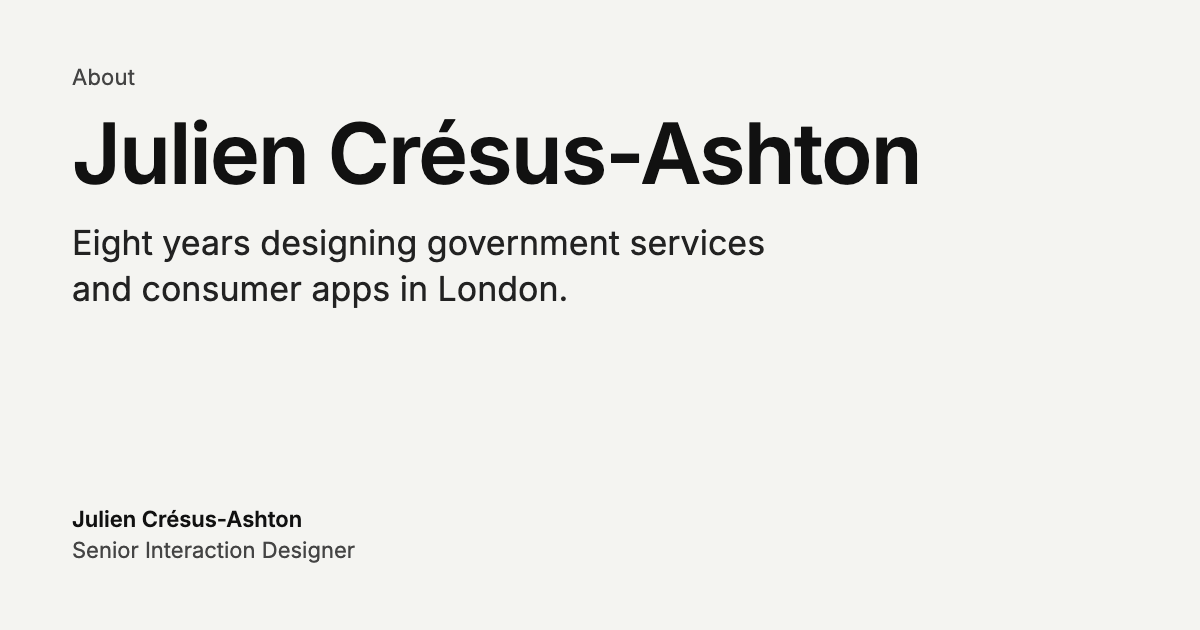
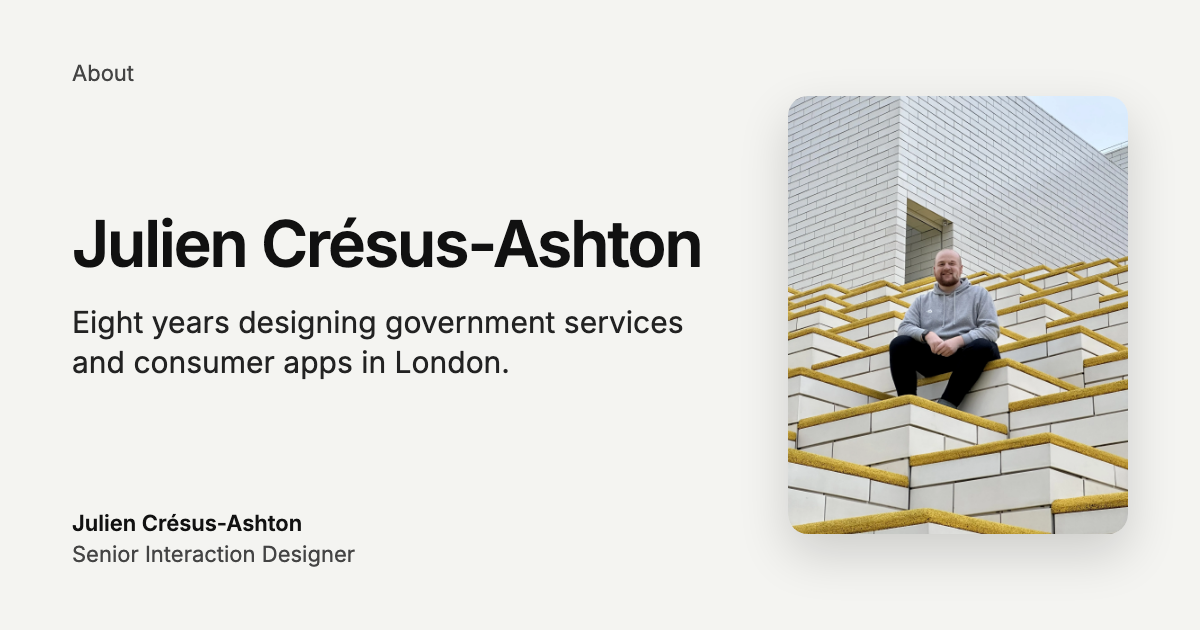
Rework share cards: framed screens, readable crops, photo cards
Hero screens now sit in a framed panel with per-project crops chosen to start
and end on whole components (no mid-word clipping), real UI screens instead
of flow diagrams, balanced text column, and home/about/cv cards use the
portrait.

Changed region(s): [[0.0617, 0.1508, 0.9558, 0.8746], [0.0617, 0.8143, 0.3083, 0.9048], [0.0617, 0.0905, 0.1233, 0.1508]]

diff --git a/scripts/generate-share-images.js b/scripts/generate-share-images.js
@@ -6,7 +6,7 @@
 const fs = require('fs');
 const os = require('os');
 const path = require('path');
-const { spawn } = require('child_process');
+const { spawn, execFileSync } = require('child_process');
 
 const ROOT = path.join(__dirname, '..');
 const IMG = path.join(ROOT, 'public', 'img');
@@ -19,40 +19,63 @@ function readExports(file, names) {
 }
 const { projects } = readExports('src/data/projects.js', ['projects']);
 
-// The screen shown on each card (relative to public/img) and where to anchor the crop.
+// The screen shown on each card (relative to public/img). x and w are the left edge and
+// width of the crop as fractions of the image, y is the top edge; the frame cuts the
+// bottom. Choose crops that start and end on whitespace or a whole component.
 const HERO = {
-  hmrc: { src: 'hmrc/picture1.png', pos: '0% 0%' },
-  naturalengland: { src: 'naturalengland/picture1.png', pos: '0% 0%' },
-  defra: { src: 'defra/picture1.jpg', pos: '0% 0%' },
-  shyl: { src: 'shyl/shyl_2.webp', pos: '40% 30%' },
-  rethink: { src: 'rethink/picture1.png', pos: '50% 0%' },
-  shya: { src: 'shya/picture5.png', pos: '50% 20%' },
-  mag: { src: 'mag/picture1.png', pos: '50% 50%' },
-  mod: { src: 'mod/mod-1.webp', pos: '50% 20%' },
-  emm: { src: 'emm/picture1.webp', pos: '50% 30%' },
-  sg: { src: 'sgdesign/picture1.webp', pos: '50% 40%' },
+  hmrc: { src: 'hmrc/picture1.png', x: 0.03, w: 0.57, y: 0 },
+  naturalengland: { src: 'naturalengland/picture2.png', x: 0.15, w: 0.5, y: 0 },
+  defra: { src: 'defra/picture1.jpg', x: 0.12, w: 0.4, y: 0.05 },
+  shyl: { src: 'shyl/shyl_1.webp', x: 0.27, w: 0.44, y: 0.1, bg: '#f7f7f7' },
+  rethink: { src: 'rethink/picture1.png', x: 0.1, w: 0.8, y: 0, bg: '#fff' },
+  shya: { src: 'shya/picture5.png', x: 0.13, w: 0.74, y: 0, bg: '#10162b' },
+  mag: { src: 'mag/picture3.png', x: 0.01, w: 0.98, y: 0.02, bg: '#000' },
+  mod: { src: 'mod/mod-4.webp', x: 0.08, w: 0.354, y: 0.2, bg: '#f7f7f7' },
+  emm: { src: 'emm/picture1.webp', x: 0.275, w: 0.45, y: 0.05, bg: '#fff' },
+  sg: { src: 'sgdesign/picture1.webp', x: 0.21, w: 0.58, y: 0.1, bg: '#fff' },
 };
 
 const esc = s => String(s).replace(/&/g, '&amp;').replace(/</g, '&lt;');
 
-function html({ eyebrow, title, hook, hero }) {
+// Frame geometry (px). Must match the CSS below.
+const PANEL = { left: 600, top: 56, right: 56, bottom: 56 };
+const PANEL_W = 1200 - PANEL.left - PANEL.right;
+
+function imageSize(file) {
+  const out = execFileSync('sips', ['-g', 'pixelWidth', '-g', 'pixelHeight', file]).toString();
+  return { w: +out.match(/pixelWidth: (\d+)/)[1], h: +out.match(/pixelHeight: (\d+)/)[1] };
+}
+
+function heroStyle(hero) {
+  const file = path.join(IMG, hero.src);
+  const { w, h } = imageSize(file);
+  const bgW = PANEL_W / hero.w;           // rendered width of the whole image
+  const bgH = bgW * (h / w);
+  return `background:${hero.bg || '#fff'} url('file://${file}') no-repeat;` +
+    `background-size:${bgW}px ${bgH}px;background-position:${-hero.x * bgW}px ${-hero.y * bgH}px`;
+}
+
+function html({ eyebrow, title, hook, hero, photo }) {
+  const big = !hero && !photo;
   return `<!doctype html><html><head><meta charset="utf-8"><style>
 @import url('https://fonts.googleapis.com/css2?family=Inter:wght@400;500;600&display=swap');
 *{box-sizing:border-box;margin:0}
 body{width:1200px;height:630px;overflow:hidden;background:#f4f4f1;font-family:Inter,-apple-system,Helvetica,Arial,sans-serif;color:#111;position:relative}
-.text{position:absolute;left:72px;top:64px;bottom:64px;width:470px;display:flex;flex-direction:column;justify-content:space-between}
-.eyebrow{font-size:22px;color:#444;letter-spacing:.2px}
-h1{font-size:${title.length > 16 ? 60 : 72}px;line-height:1.05;font-weight:600;letter-spacing:-1.5px;margin:20px 0 22px}
-.hook{font-size:28px;line-height:1.35;color:#222}
+.text{position:absolute;left:72px;top:60px;bottom:60px;width:${big ? 1000 : 470}px;display:flex;flex-direction:column;justify-content:space-between}
+.eyebrow{font-size:22px;color:#444}
+h1{font-size:${big || Math.max(...title.split(' ').map(w => w.length)) > 9 ? 64 : 84}px;line-height:1.04;font-weight:600;letter-spacing:-2px;margin-bottom:24px}
+.hook{font-size:30px;line-height:1.35;color:#222}
 .by{font-size:22px;line-height:1.4;color:#444}.by strong{color:#111;font-weight:600}
-.shot{position:absolute;left:600px;top:72px;right:-40px;bottom:-40px;border-radius:18px 0 0 0;overflow:hidden;background:#fff;
- box-shadow:0 24px 60px rgba(0,0,0,.18),0 0 0 1px rgba(0,0,0,.08)}
-.shot img{width:100%;height:100%;object-fit:cover;object-position:${hero ? hero.pos : '0 0'}}
-${hero ? '' : '.shot{display:none}.text{width:900px}h1{font-size:84px}.hook{font-size:34px;max-width:760px}'}
+.panel{position:absolute;left:${PANEL.left}px;top:${PANEL.top}px;right:${PANEL.right}px;bottom:${PANEL.bottom}px;border-radius:16px;overflow:hidden;
+ box-shadow:0 20px 50px rgba(0,0,0,.16),0 0 0 1px rgba(0,0,0,.08)}
+.photo{position:absolute;right:72px;top:96px;width:340px;height:438px;border-radius:20px;background:url('file://${path.join(IMG, 'me.webp')}') center 12%/cover;
+ box-shadow:0 20px 50px rgba(0,0,0,.16)}
+${photo ? '.text{width:640px}' : ''}
 </style></head><body>
-<div class="text"><div><div class="eyebrow">${esc(eyebrow)}</div><h1>${esc(title)}</h1><p class="hook">${esc(hook)}</p></div>
+<div class="text"><div class="eyebrow">${esc(eyebrow)}</div>
+<div><h1>${esc(title)}</h1><p class="hook">${esc(hook)}</p></div>
 <div class="by"><strong>Julien Crésus-Ashton</strong><br>Senior Interaction Designer</div></div>
-${hero ? `<div class="shot"><img src="file://${path.join(IMG, hero.src)}"></div>` : ''}
+${hero ? `<div class="panel" style="${heroStyle(hero)}"></div>` : ''}${photo ? '<div class="photo"></div>' : ''}
 </body></html>`;
 }
 
@@ -68,9 +91,9 @@ const cards = projects.map(p => {
 });
 
 cards.push(
-  { id: 'home', eyebrow: 'Portfolio', title: 'Julien Crésus-Ashton', hook: 'Senior Interaction Designer. I make complex services easier to use.' },
-  { id: 'about', eyebrow: 'About', title: 'Julien Crésus-Ashton', hook: 'Eight years designing government services and consumer apps in London.' },
-  { id: 'cv', eyebrow: 'Curriculum vitae', title: 'Julien Crésus-Ashton', hook: 'Senior Interaction Designer. SC cleared. HMRC, DEFRA, Natural England.' },
+  { id: 'home', photo: true, eyebrow: 'Portfolio', title: 'Julien Crésus-Ashton', hook: 'Senior Interaction Designer. I make complex services easier to use.' },
+  { id: 'about', photo: true, eyebrow: 'About', title: 'Julien Crésus-Ashton', hook: 'Eight years designing government services and consumer apps in London.' },
+  { id: 'cv', photo: true, eyebrow: 'Curriculum vitae', title: 'Julien Crésus-Ashton', hook: 'Senior Interaction Designer. SC cleared. HMRC, DEFRA, Natural England.' },
   { id: 'accessibility', eyebrow: 'Accessibility statement', title: 'Accessibility', hook: 'WCAG 2.2 AA target, what is in place, known issues and how to report a problem.' },
 );
 
